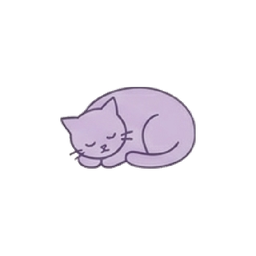
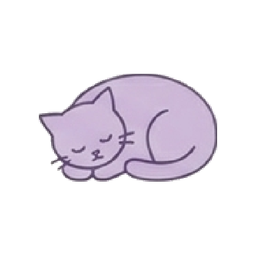
fix: 4개 페르소나 사이즈 다른 6개와 매칭 — 22% 패딩
이전 45% 패딩(fill 52.7%)이 다른 6개(fill 68-69%)보다 너무 작아서
시각적으로 동떨어져 보였던 문제. 22% 패딩으로 재추출:

  · spotted-v2:     위 여백 14.1% (다른 stand 자세 15.6%과 매칭)
  · lavender-v2:    위 여백 27.7% (curl 자세 night 28.1%과 매칭)
  · chlorophyll-v2: 위 여백 24.6% (loaf 자세 bread 25.4%과 매칭)
  · cyberpunk-v2:   위 여백 14.8% (다른 stand 자세 15.6%과 매칭)

Changed region(s): [[0.125, 0.2812, 0.875, 0.7188], [0.6875, 0.5312, 0.7188, 0.5625], [0.6562, 0.5625, 0.6875, 0.5938]]

diff --git a/scripts/extract-4-from-pdf.py b/scripts/extract-4-from-pdf.py
@@ -120,7 +120,8 @@ def main():
         cw = cr - cl
         ch = cb - ct
         print(f"{name}: card={card.size}, cat=({cl},{ct},{cr},{cb}) {cw}x{ch}")
-        out = make_persona_png(card, cat_bbox, padding_ratio=0.45)
+        # 22% 패딩 — 다른 6개 페르소나 (68-69% fill)와 사이즈 맞춤
+        out = make_persona_png(card, cat_bbox, padding_ratio=0.22)
         out.save(OUT_DIR / f"{name}-v2.png", optimize=True)
         # 검수용 — top/bottom margin 확인
         bbox2 = out.getbbox()
